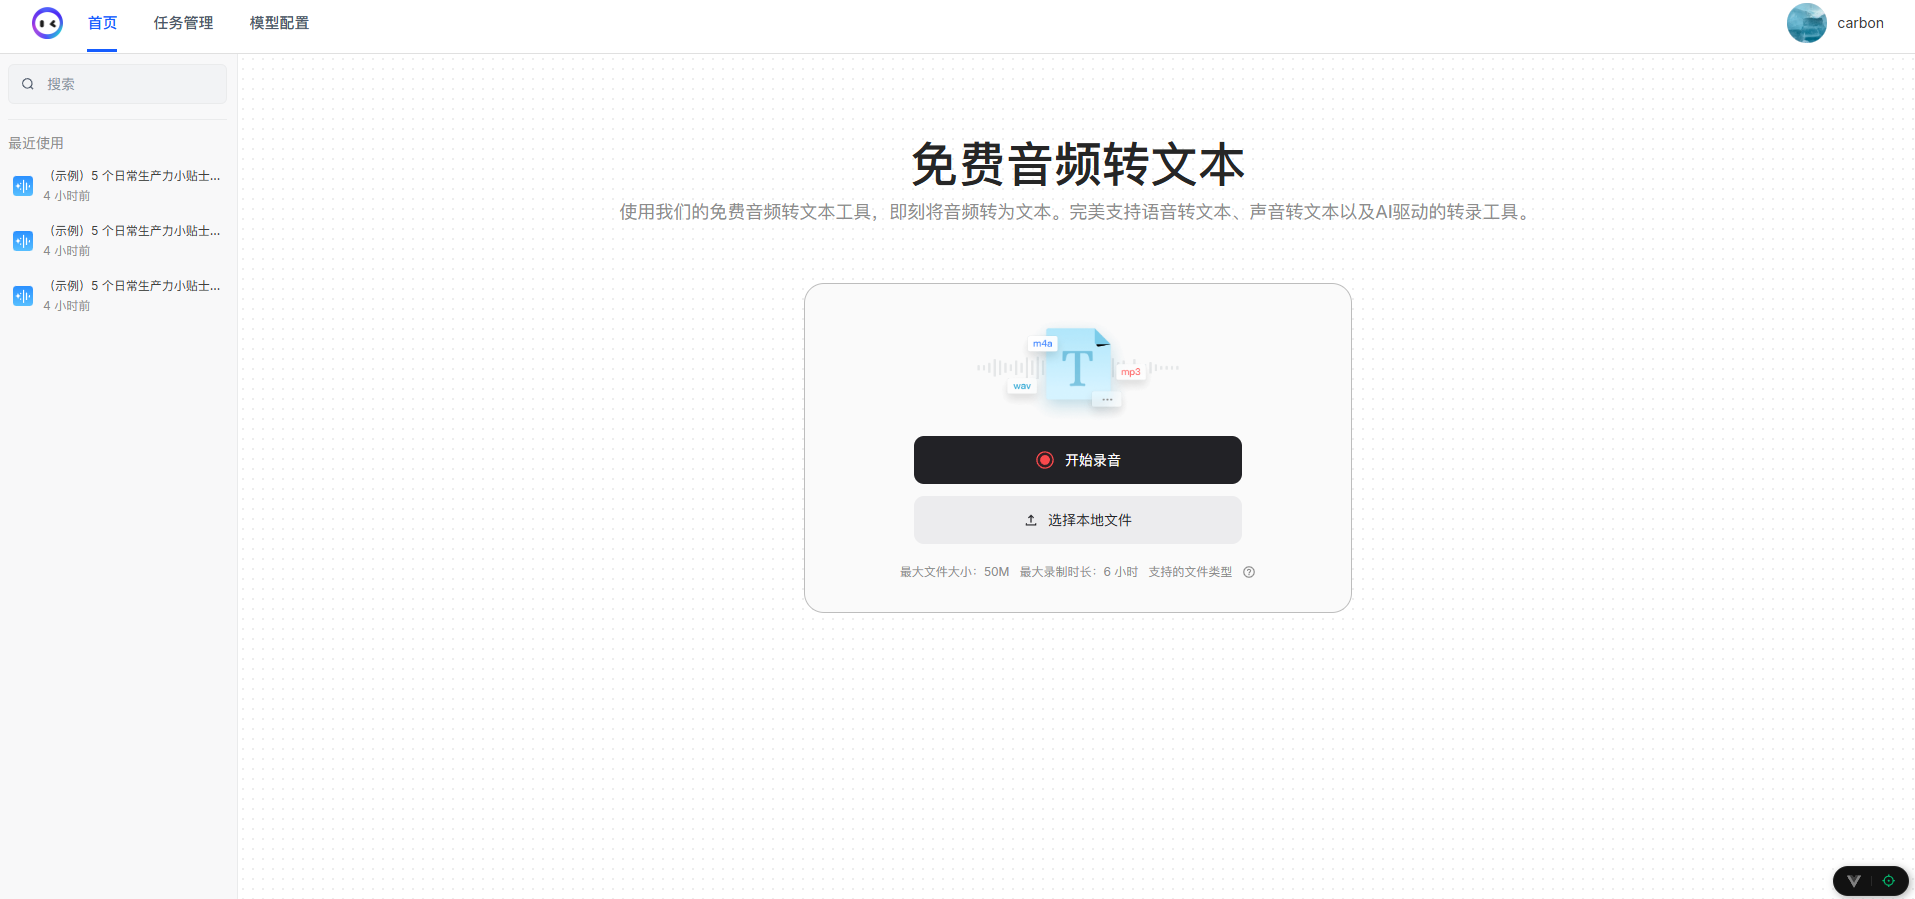
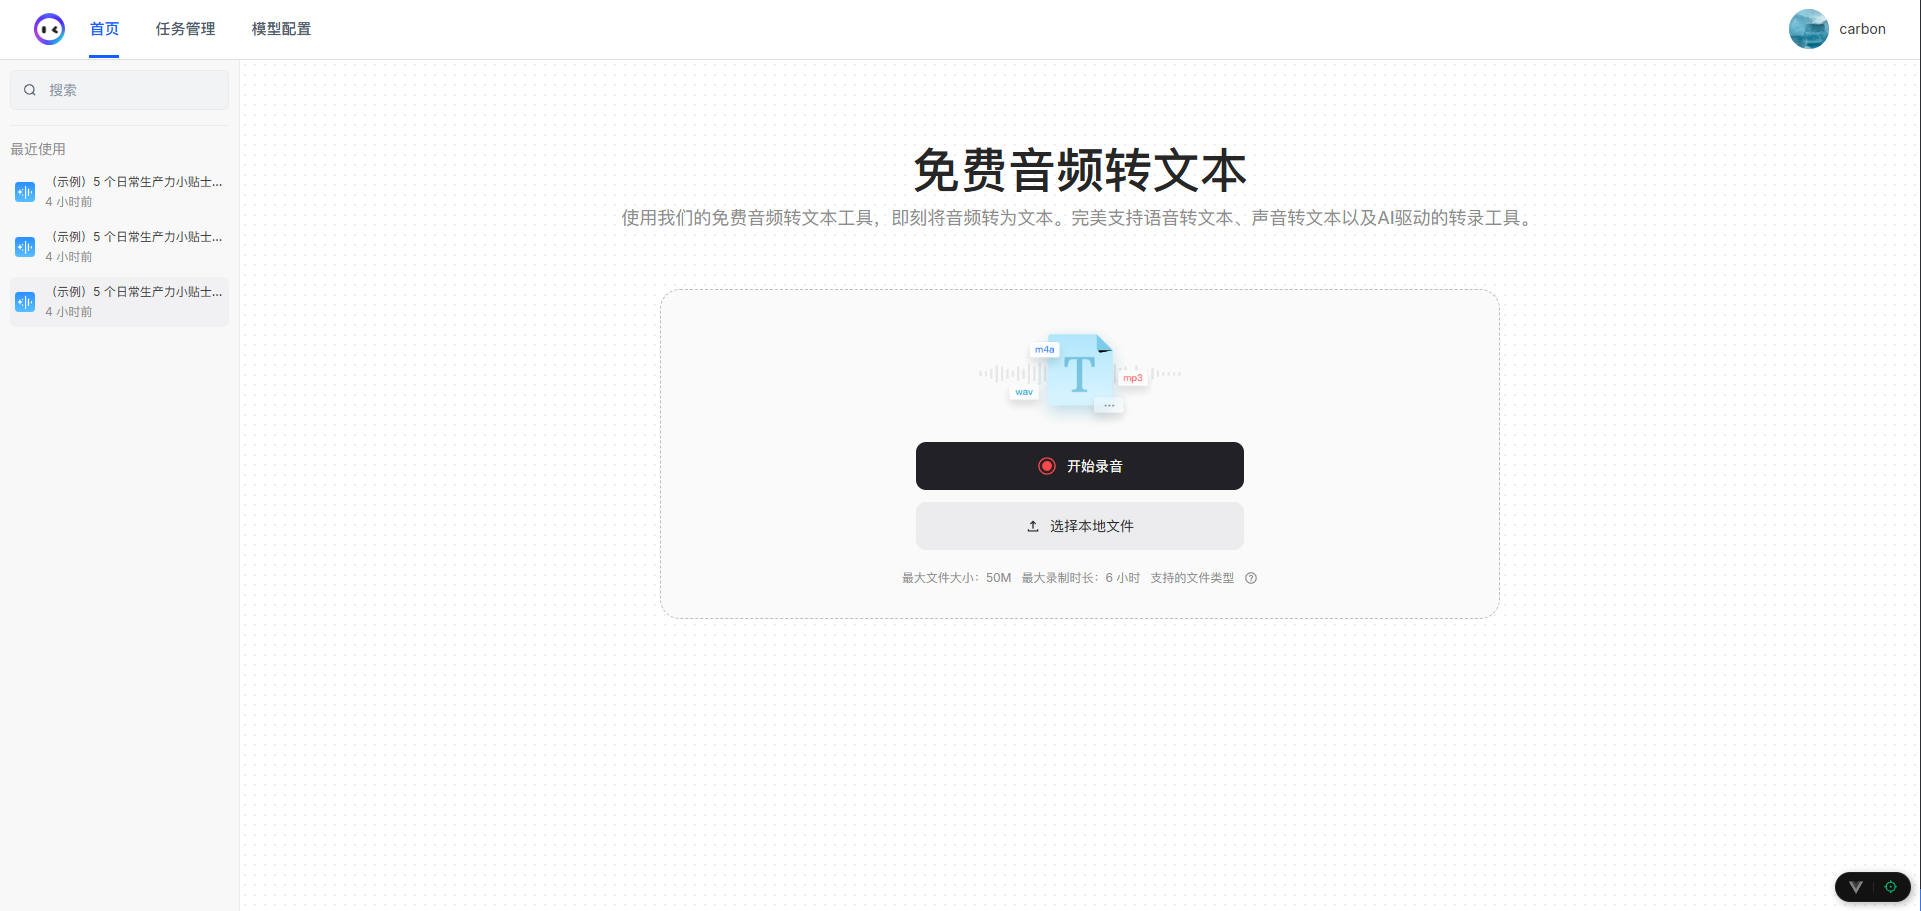
fix: 样式微调

diff --git a/web-ui/src/views/home/UploadContent.vue b/web-ui/src/views/home/UploadContent.vue
@@ -3,8 +3,8 @@
     <div class="flex flex-col items-center">
       <h1 class="text-[#262626] text-[48px] font-bold leading-tight m-0">免费音频转文本</h1>
       <span class="text-[#8c8c8c] text-[18px] leading-tigh mt-[8px]">使用我们的免费音频转文本工具，即刻将音频转为文本。完美支持语音转文本、声音转文本以及AI驱动的转录工具。</span>
-      <div class="mt-[60px] mx-[auto]">
-        <div class="flex flex-col items-center border-[1px] border-[#bdbdbd] rounded-[20px] p-[32px] bg-[#fafafa]">
+      <div class="mt-[60px] mx-[auto] min-w-[840px]">
+        <div class="flex flex-col items-center border-[1px] border-[#bdbdbd] border-dashed rounded-[20px] p-[32px] bg-[#fafafa]">
           <img class="max-h-[108px]" src="@/assets/file/upload.png" />
           <div class="p-[10px] flex justify-center items-center gap-[10px] mt-[12px] cursor-pointer bg-[#222226] hover:bg-[#000] rounded-[10px] min-w-[328px] h-[48px]">
             <svg fill="none" style="min-width: 20px; min-height: 20px" width="20" height="20" viewBox="0 0 20 20">

diff --git a/web-ui/src/views/task/TaskManage.vue b/web-ui/src/views/task/TaskManage.vue
@@ -1,5 +1,5 @@
 <template>
-  <div>task</div>
+  <div class="p-5">task</div>
 </template>
 <script setup lang="ts"></script>
 <style scoped lang="scss"></style>

diff --git a/README.md b/README.md
@@ -4,6 +4,12 @@
 一个基于 **Vue3 + Arco Design + TailwindCSS** 的音频转文本 Web 应用雏形。  
 支持用户上传音频或直接录音，借助 AI 实现语音转文本。
 
+本项目是一个基于[Monica AI Audio to Text](https://monica.im)
+ 页面设计理念开发的示例页面，旨在实现音频转文字的前端交互展示效果。
+
+⚠ 声明：本项目仅参考了 Monica 网站的页面布局和交互设计，未直接使用其源代码或音频处理功能。
+
+
 ---
 
 ## ✨ 功能特性
